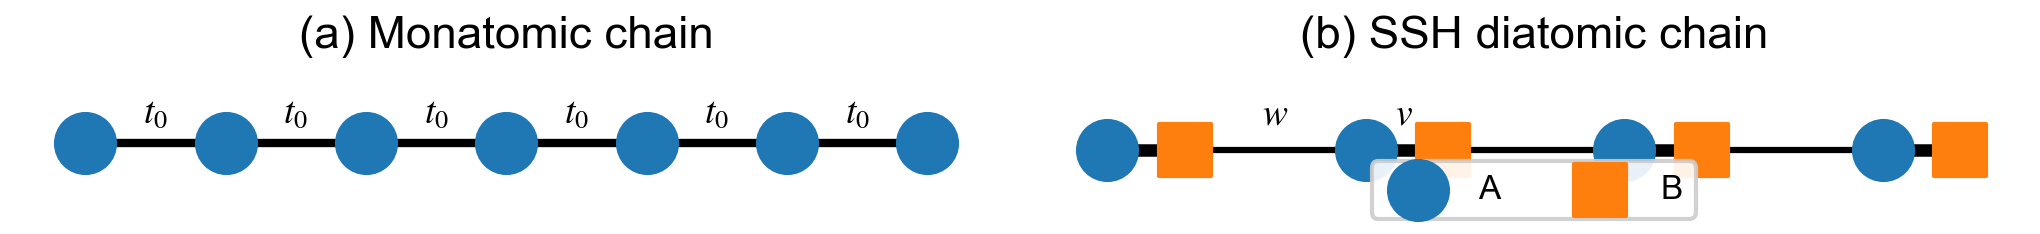
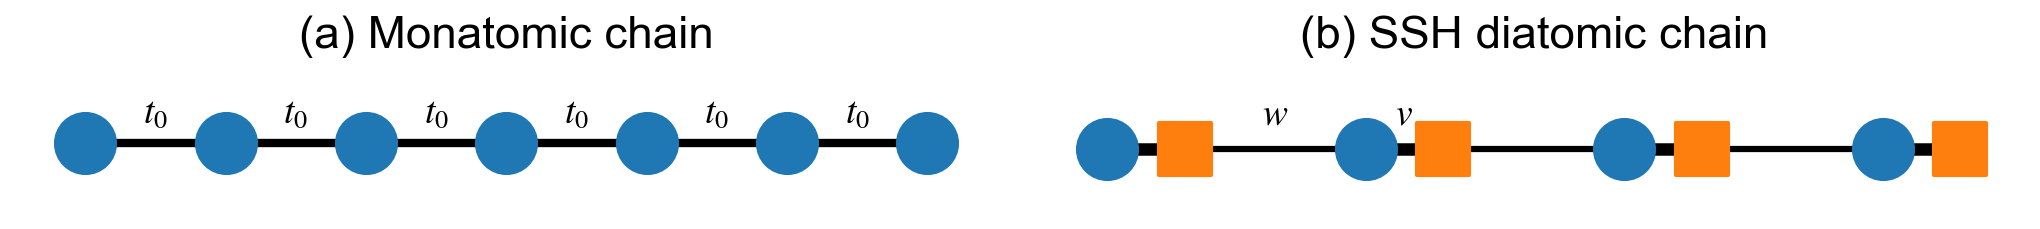
refine: polish figure aesthetics
Minor adjustments to publication figures:
- fig1: remove legend to avoid blocking right atoms
- fig2: use distinct colors for two localized states (L1: orange, L2: red)
- fig3: adjust table column widths for better readability
- fig3: improve Case 2 subtitle precision (scientific notation for σ/μ)

diff --git a/scripts/generate_publication_figures.py b/scripts/generate_publication_figures.py
@@ -189,8 +189,6 @@ def generate_figure1_model_schematic(output_dir: Path):
     ax.set_aspect('equal')
     ax.axis('off')
     ax.set_title('(b) SSH diatomic chain', fontsize=11)
-    # 将legend移到图外下方
-    ax.legend(loc='lower center', fontsize=8, ncol=2, bbox_to_anchor=(0.5, -0.15))
 
     plt.tight_layout()
     fig.savefig(output_dir / "fig1_model_schematic.png")
@@ -238,7 +236,7 @@ def generate_figure2_wavefunctions(output_dir: Path):
     axes[0, 0].set_xlim(0, n_cells)
 
     axes[0, 1].fill_between(x, 0, np.abs(psi_loc1)**2, alpha=0.7, color=COLORS['case2'], label='L1')
-    axes[0, 1].fill_between(x, 0, np.abs(psi_loc2)**2, alpha=0.5, color=COLORS['case2'], label='L2')
+    axes[0, 1].fill_between(x, 0, np.abs(psi_loc2)**2, alpha=0.6, color=COLORS['highlight'], label='L2')
     axes[0, 1].set_title('(b) Case 2: Localized', fontsize=10)
     axes[0, 1].legend(fontsize=7, loc='upper right')
     axes[0, 1].set_xlim(0, n_cells)
@@ -332,7 +330,7 @@ def generate_figure3_scaling_laws(output_dir: Path):
     ax.set_xscale('log')
     ax.set_xlabel('$N$')
     ax.set_ylabel(r'$\langle d^2 \rangle$')
-    ax.set_title(f'(b) Case 2: Loc-Loc\n$\\langle d^2 \\rangle = {mean_d2:.2e} \\pm {rel_std:.1f}\\%$', fontsize=10)
+    ax.set_title(f'(b) Case 2: Loc-Loc\n$\\langle d^2 \\rangle = {mean_d2:.3e}, \\sigma/\\mu = {rel_std:.2e}$', fontsize=10)
     ax.legend(fontsize=8, loc='upper right')
 
     # (c) Case 3
@@ -362,13 +360,13 @@ def generate_figure3_scaling_laws(output_dir: Path):
     cell_text = [
         ['Case', 'Type', 'Expected', 'Result', 'Quality'],
         ['1', 'Ext-Ext', r'$\beta=1$', f'$\\beta={beta1:.2f}$', f'$R^2={r2_1:.3f}$'],
-        ['2', 'Loc-Loc', 'const', f'$\\sigma/\\mu={rel_std:.1f}\\%$', 'Stable' if rel_std < 5 else 'Varies'],
+        ['2', 'Loc-Loc', 'const', f'$\\sigma/\\mu={rel_std:.2e}$', 'Stable' if rel_std < 5 else 'Varies'],
         ['3', 'Loc-Ext', r'$\beta=1$', f'$\\beta={beta3:.2f}$', f'$R^2={r2_3:.3f}$'],
     ]
 
     table = ax.table(cellText=cell_text[1:], colLabels=cell_text[0],
                      loc='center', cellLoc='center',
-                     colWidths=[0.12, 0.18, 0.18, 0.28, 0.18])
+                     colWidths=[0.15, 0.20, 0.24, 0.40, 0.30])
     table.auto_set_font_size(False)
     table.set_fontsize(9)
     table.scale(1.2, 1.5)
